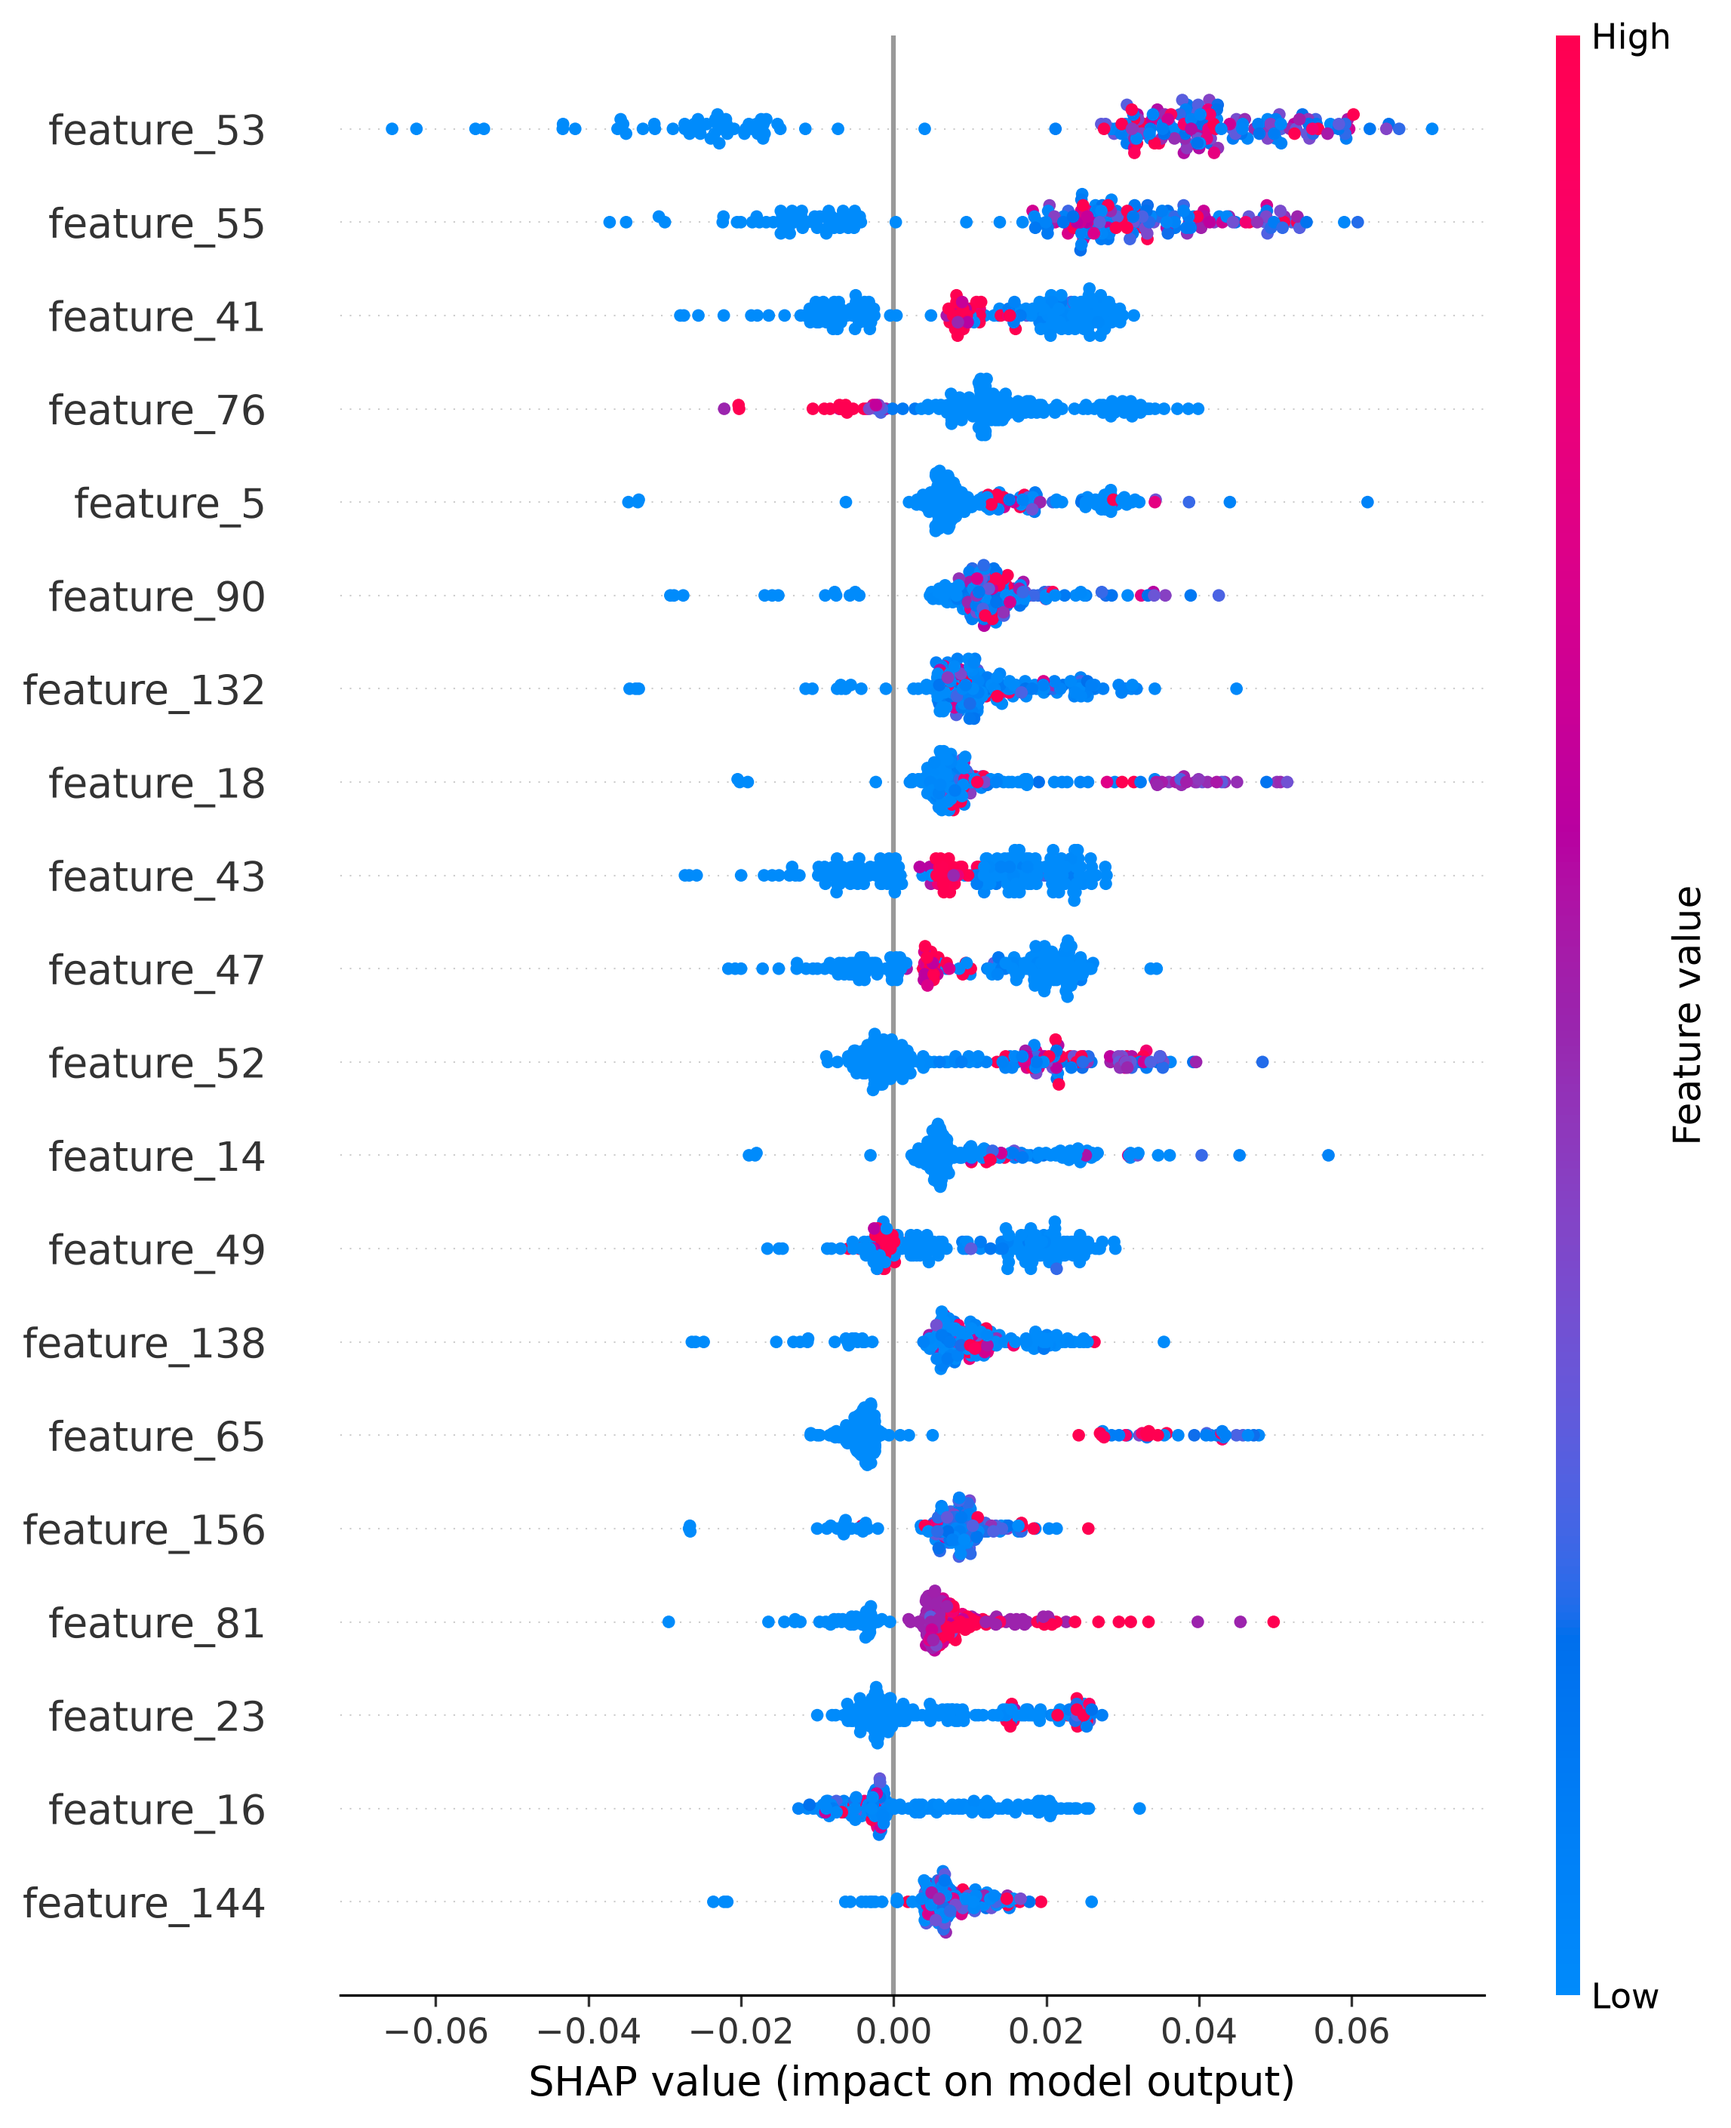
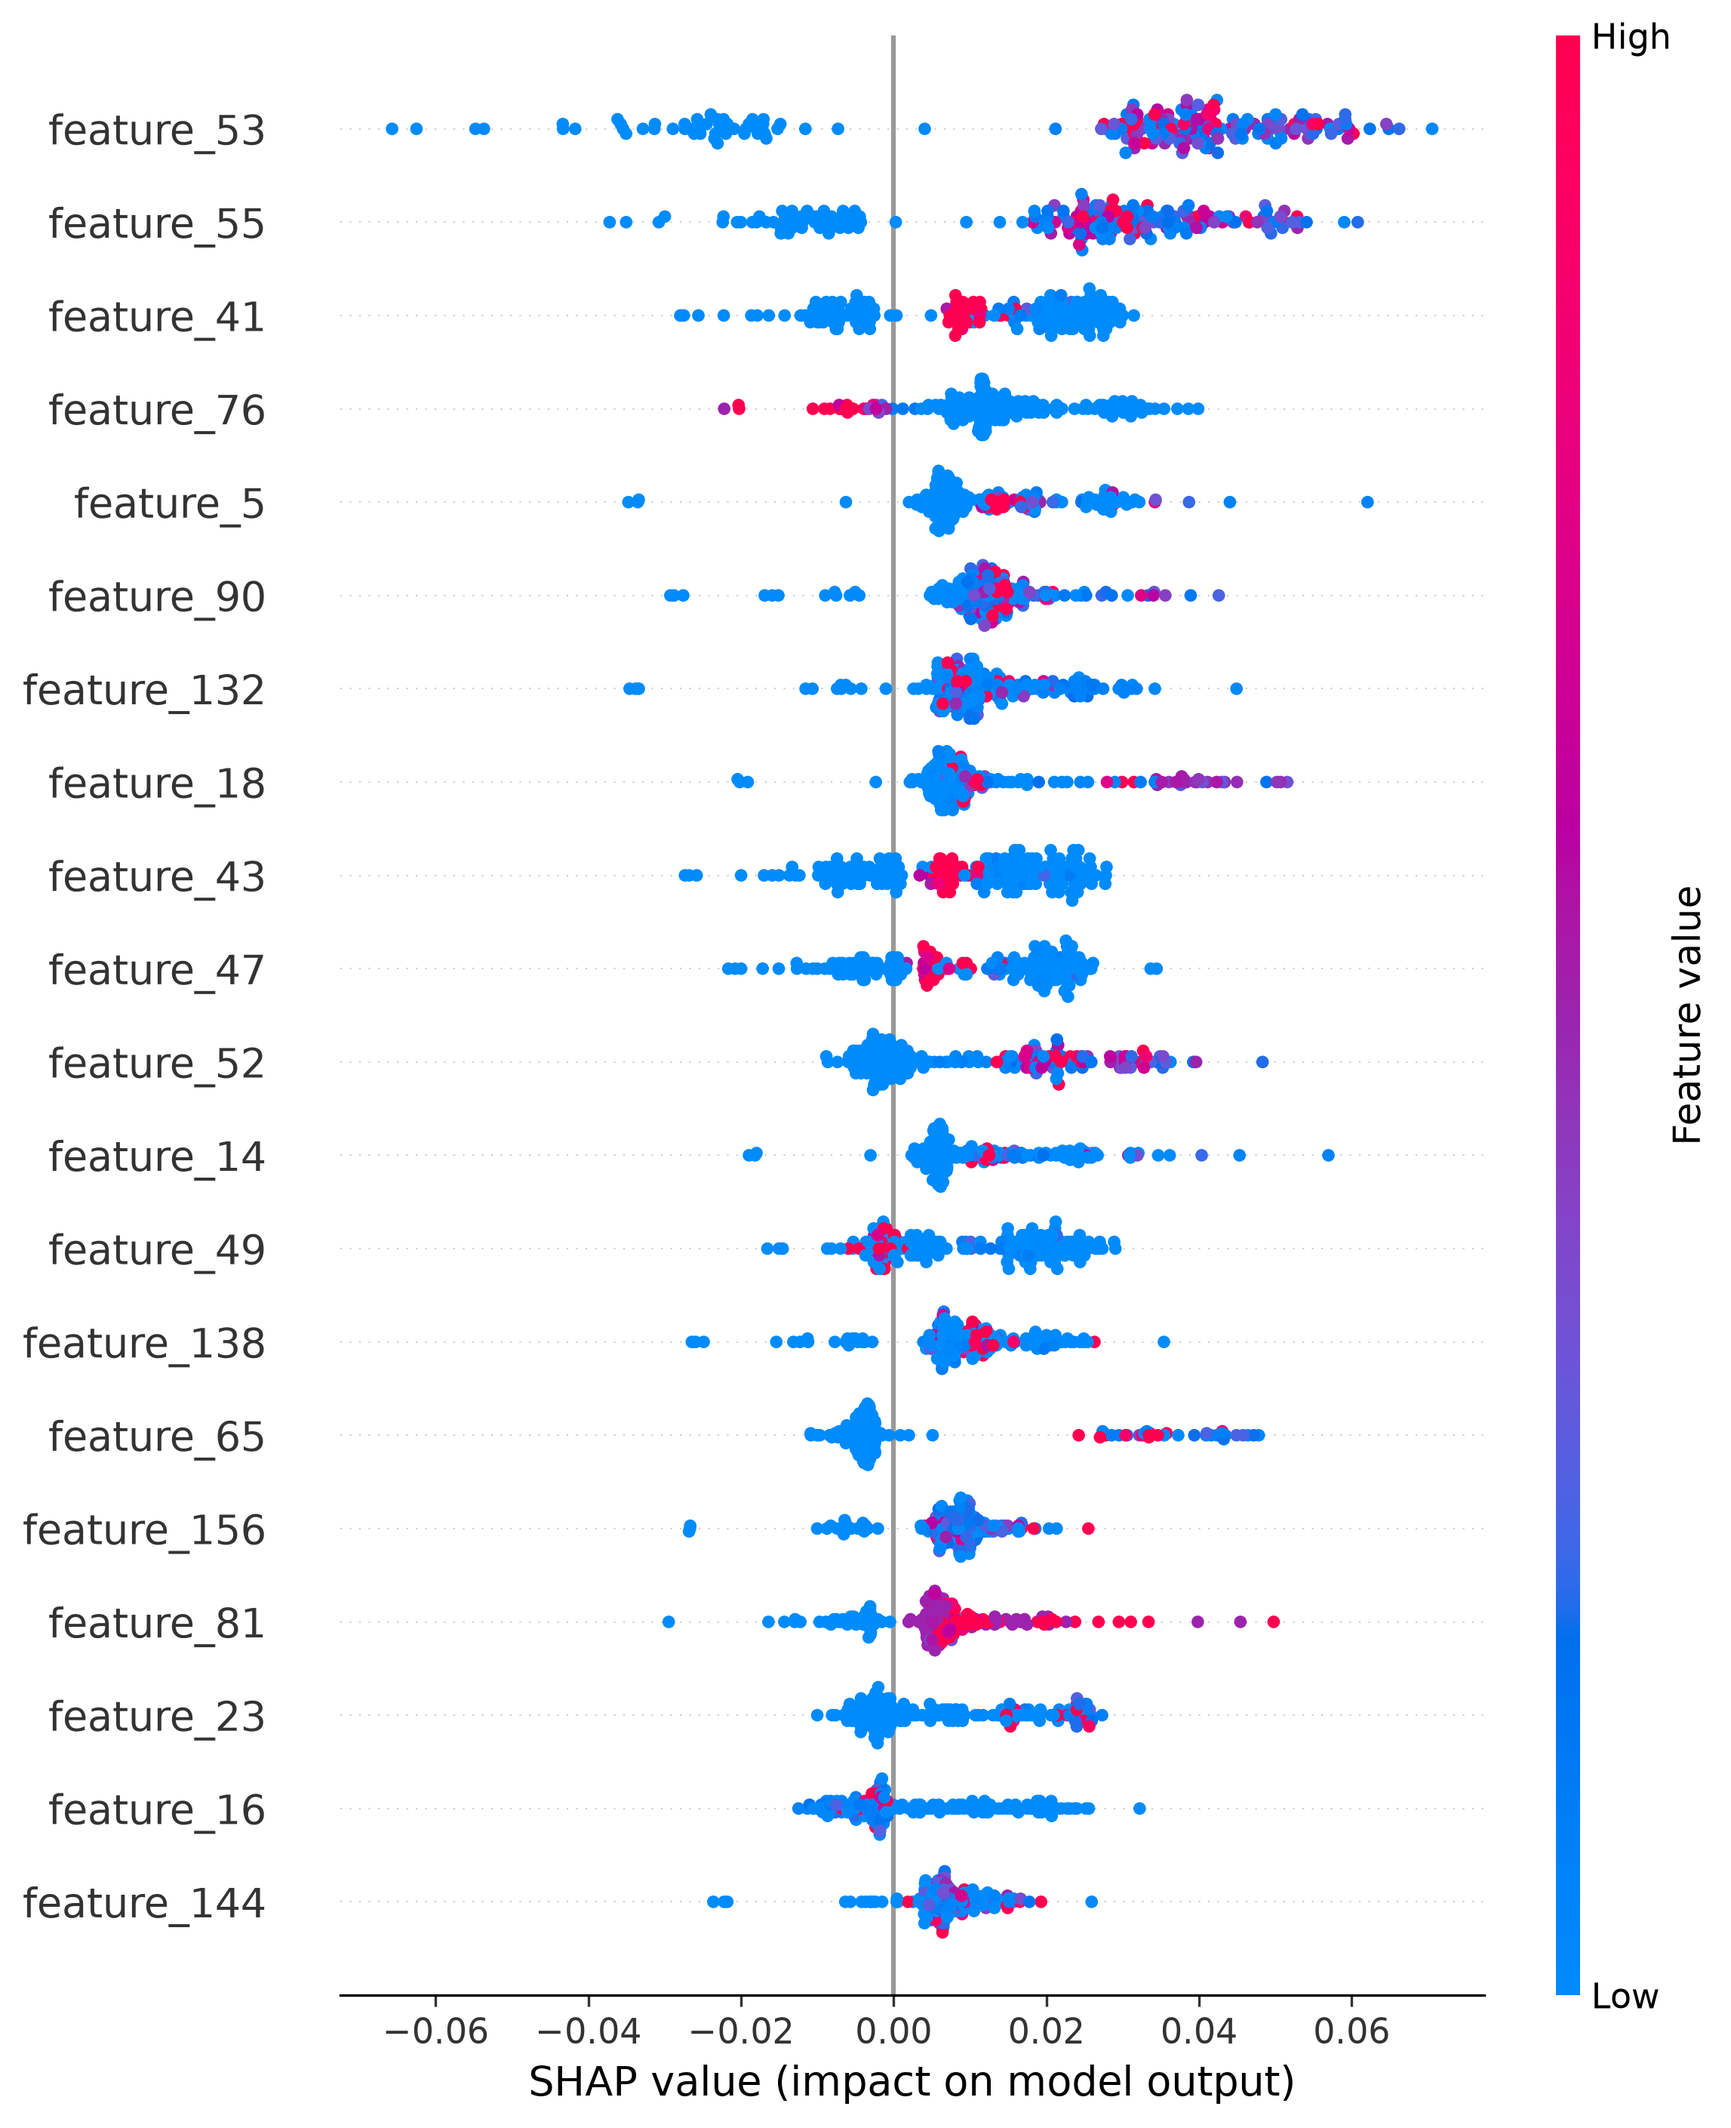
Add SHAP explainability and stability analysis

diff --git a/reports/shap_explainability_summary.md b/reports/shap_explainability_summary.md
@@ -1,0 +1,104 @@
+# SHAP Explainability and Reliability Analysis
+
+## 1. Objective
+
+The objective of this experiment is to investigate how SHAP (SHapley Additive exPlanations) explains the predictions made by the Random Forest model in the FinGraph-Sentinel project.
+
+The analysis focuses on identifying influential features, understanding their contribution to model predictions, and evaluating the stability of global feature importance rankings under different background dataset selections.
+
+## 2. Experimental Setup
+
+- Dataset: Elliptic Bitcoin Transaction Dataset
+- Model: Temporal Random Forest Classifier
+- Explanation method: SHAP TreeExplainer
+- SHAP stability analysis: Interventional explanations using two  background samples of 50 training transactions each
+- Global explanation dataset: 200 transactions
+- Feature count: 171
+- Training period: Time steps 1–41
+- Testing period: Time steps 42–49
+## 3. SHAP Explanation Stability
+
+To evaluate the sensitivity of SHAP explanations to background dataset selection, two different background samples were selected from the training period.
+
+- Background A: 50 transactions (random_state=42)
+- Background B: 50 transactions (random_state=100)
+- Common explanation dataset: 100 test transactions
+
+### Results
+
+| Evaluation Metric | Result |
+|---|---:|
+| Spearman rank correlation | 0.990479 |
+| P-value | 1.78 × 10⁻¹⁴⁷ |
+| Top-10 feature overlap | 8/10 |
+| Mean absolute importance difference | 0.000266 |
+
+### Interpretation
+
+The Spearman correlation of approximately 0.99 indicates very high consistency between the global SHAP feature rankings obtained using the two background samples.
+
+Eight out of the top ten features were common to both experiments.
+
+**Finding:** Global SHAP feature rankings showed strong consistency under the tested background sampling conditions.
+
+**Limitation:** This experiment evaluates only background-sampling sensitivity. It does not establish stability across different time periods, models, or individual transaction explanations.
+## 4. Most Influential Features
+
+The following features appeared among the top 15 global SHAP features in the stability experiment.
+
+| Feature | Background A Importance | Background B Importance |
+|---|---:|---:|
+| Feature 53 | 0.021843 | 0.019115 |
+| Feature 55 | 0.014371 | 0.011295 |
+| Feature 65 | 0.011882 | 0.012588 |
+| Feature 59 | 0.010019 | 0.010332 |
+| Feature 66 | 0.008492 | 0.009253 |
+| Feature 5 | 0.007806 | 0.005139 |
+| Feature 90 | 0.007472 | 0.005930 |
+| Feature 16 | 0.007204 | 0.007665 |
+| Feature 52 | 0.006920 | 0.005655 |
+| Feature 23 | 0.006670 | 0.006817 |
+
+Feature 53 had the highest mean absolute SHAP importance in both background experiments.
+
+**Observation:** The leading features maintained relatively consistent importance rankings, although their individual importance magnitudes changed slightly between background samples.
+## 5. SHAP Visualizations
+
+The SHAP analysis generated two visualizations to interpret the Random Forest model.
+
+### 5.1 SHAP Summary Plot
+
+File: `reports/figures/shap_summary.png`
+
+This plot displays the distribution of SHAP values across transactions and features. It helps identify which features have the greatest influence on model predictions and how their values relate to prediction contributions.
+
+### 5.2 SHAP Feature Importance Plot
+
+File: `reports/figures/shap_importance.png`
+
+This plot presents global feature importance using mean absolute SHAP values. It provides an overall ranking of features based on their contribution magnitude.
+
+Both visualizations were generated using 200 test transactions and 171 input features.
+## 6. Overall Conclusion
+
+The SHAP experiments demonstrate that the Random Forest model can be interpreted using global feature attribution.
+
+The main findings are:
+
+1. SHAP successfully generated explanations for 200 test transactions across 171 features.
+2. Feature 53 showed the highest global mean absolute SHAP importance in the stability experiment.
+3. The global feature rankings demonstrated high consistency across two background samples.
+4. The top-10 feature overlap was 8 out of 10.
+5. Background selection caused small changes in individual feature importance magnitudes.
+
+### Limitations
+
+- The stability experiment used only two background samples.
+- The analysis focused on global feature rankings rather than individual prediction explanations.
+- Stability across different temporal periods has not yet been established.
+- SHAP importance indicates model attribution, not causal influence.
+- The experiments do not establish that the model's predictions are correct or fair.
+
+### Future Work
+
+Further experiments should investigate temporal explanation stability, local explanation consistency, and agreement between SHAP and other explainability methods such as LIME.
